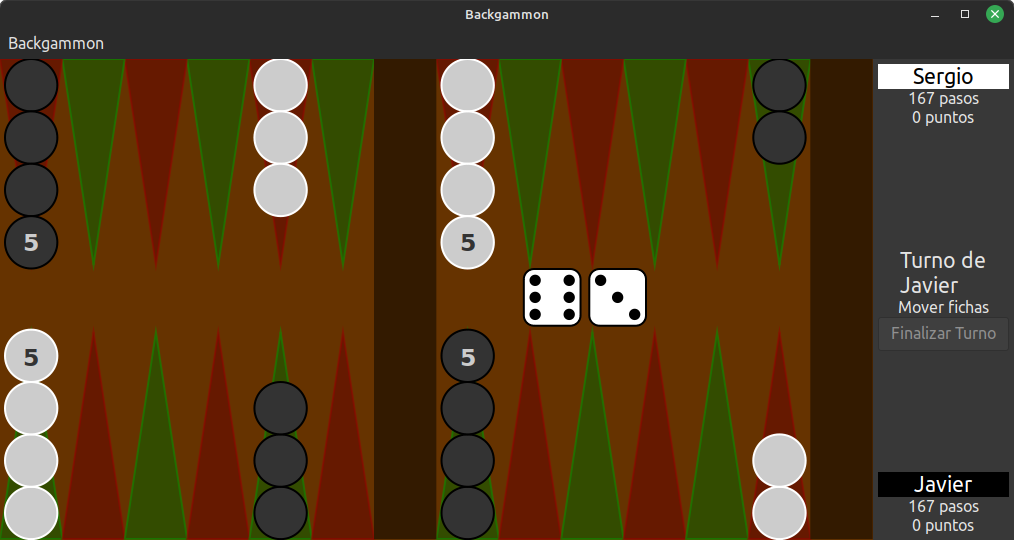
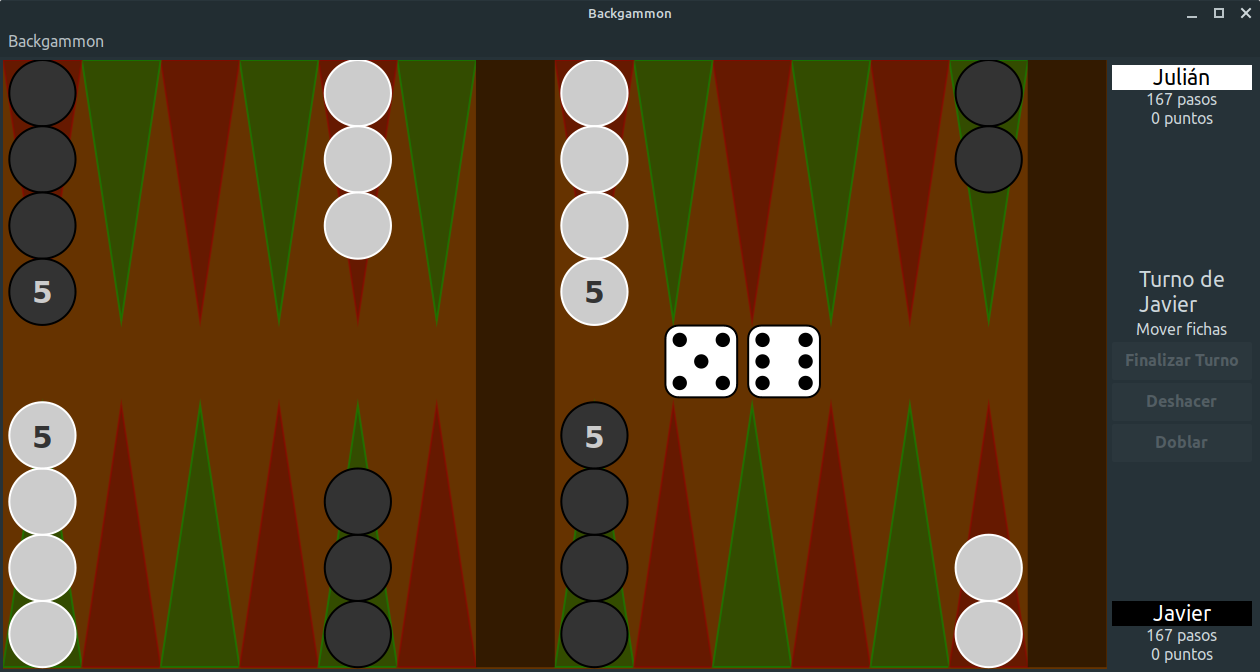
double point dice requests

Changed region(s): [[0.0, 0.0296, 1.0, 1.0], [0.4586, 0.0, 0.5503, 0.0593], [0.9477, 0.0, 1.0, 0.0593]]

diff --git a/src/player.c b/src/player.c
@@ -12,6 +12,11 @@
 #include <backgammon.h>
 #include <movement.h>
 #include <dice.h>
+#include <utils.h>
+#include <double_dice.h>
+
+gboolean human_double_request(Backgammon *bg);
+gboolean ia_double_request(Backgammon *bg);
 
 /**
  * @brief Update player information:
@@ -99,10 +104,14 @@ guint player_count_steps(void *bgp, Player *player) {
 /**
  * @brief Function assigned to a player to configure them as a human player.
  * 
- * @param bgp Backgammon instance
+ * @param bg Backgammon instance
+ * @param double_request TRUE when the player is asked to double
+ * @return boolean FALSE if opponent rejects the double
  */
-void human_play_func(void *bgp) {
+gboolean human_play_func(void *bgp, gboolean double_request) {
 	Backgammon *bg = (Backgammon *) bgp;
+
+	if (double_request) return human_double_request(bg);
 
 	if (bg->status == S_ROLL_DICE) {
 		bg->board->enable_dice = TRUE;
@@ -141,17 +150,23 @@ void human_play_func(void *bgp) {
 		gtk_widget_set_sensitive(GTK_WIDGET(bg->undo_button), TRUE);
 		gtk_widget_set_sensitive(GTK_WIDGET(bg->double_button), FALSE);
 	}
+
+	return TRUE;
 }
 
 /**
  * @brief Function assigned to a player to configure them as an artificial intelligence.
  * 
- * @param bgp Backgammon instance
+ * @param bg Backgammon instance
+ * @param double_request TRUE when the player is asked to double
+ * @return boolean FALSE if opponent rejects the double
  */
-void ia_play_func(void *bgp) {
+gboolean ia_play_func(void *bgp, gboolean double_request) {
 	guint choice, i;
 	GList *iter;
 	Backgammon *bg = (Backgammon *) bgp;
+
+	if (double_request) return ia_double_request(bg);
 
 	bg->board->enable_dice = FALSE;
 	bg->board->enable_places = FALSE;
@@ -159,6 +174,10 @@ void ia_play_func(void *bgp) {
 	if (bg->status == S_ROLL_DICE) {
 		gtk_label_set_text(bg->action_label, "Lanzar dados");
 		gtk_widget_set_sensitive(GTK_WIDGET(bg->end_turn_button), FALSE);
+
+		if (g_random_double_range(0, 1.0) < 0.1) {
+			double_perform(bg);
+		}
 		
 		dice_roll(bg->board->dice, bg->board->consumed_dice);
 
@@ -200,6 +219,8 @@ void ia_play_func(void *bgp) {
 		gtk_label_set_text(bg->action_label, "Turno finalizado");
 		gtk_widget_set_sensitive(GTK_WIDGET(bg->end_turn_button), TRUE);
 	}
+
+	return TRUE;
 }
 
 /**
@@ -211,7 +232,27 @@ void ia_play_func(void *bgp) {
 gboolean ia_delayed_func(gpointer data) {
 	Backgammon *bg = (Backgammon *) data;
 
-	bg_current_player(bg)->play_func(bg);
+	bg_current_player(bg)->play_func(bg, FALSE);
 
 	return G_SOURCE_REMOVE;
+}
+
+gboolean human_double_request(Backgammon *bg) {
+	GString *msg;
+	gboolean result;
+
+	msg = g_string_new("");
+	g_string_append_printf(msg, "%s dobla la apuesta ¿Aceptar?",
+			bg_current_player(bg)->name->str);
+
+	result = question(GTK_WIDGET(bg->window), msg->str);
+
+	g_string_free(msg, TRUE);
+
+	return result;
+}
+
+gboolean ia_double_request(Backgammon *bg) {
+	// TODO: improve ia
+	return g_random_double_range(0.0, 1.0) > 0.5;
 }

diff --git a/include/player.h b/include/player.h
@@ -22,7 +22,7 @@
 typedef struct player_t {
 	GString *name;
 	gint piece, direction, score, double_points;
-	void (*play_func)(void *);
+	gboolean (*play_func)(void *, gboolean);
 	gboolean ia;
 } Player;
 
@@ -47,15 +47,19 @@ guint player_count_steps(void *bg, Player *player);
  * @brief Function assigned to a player to configure them as a human player.
  * 
  * @param bg Backgammon instance
+ * @param double_request TRUE when the player is asked to double
+ * @return boolean FALSE if opponent rejects the double
  */
-void human_play_func(void *bg);
+gboolean human_play_func(void *bg, gboolean double_request);
 
 /**
  * @brief Function assigned to a player to configure them as an artificial intelligence.
  * 
  * @param bg Backgammon instance
+ * @param double_request TRUE when the player is asked to double
+ * @return boolean FALSE if opponent rejects the double
  */
-void ia_play_func(void *bg);
+gboolean ia_play_func(void *bg, gboolean double_request);
 
 /**
  * @brief Function called during the delay generated for AI.

diff --git a/src/double_dice.c b/src/double_dice.c
@@ -11,6 +11,7 @@
 
 #include <backgammon.h>
 #include <math.h>
+#include <results_dialog.h>
 
 /**
  * @brief Sets the Pixbuf based on the number of points.
@@ -44,6 +45,7 @@ void set_double_dice_image(Backgammon *bg, GtkImage *img, guint points) {
 void double_perform(void *bgp) {
 	Backgammon *bg;
 	guint points;
+	ResultsDialog *dialog;
 
 	bg = (Backgammon *) bgp;
 
@@ -56,6 +58,22 @@ void double_perform(void *bgp) {
 
 	// Maximum reached. Cannot double anymore
 	if (points > 64) return;
+
+	if (!bg_opponent(bg)->play_func(bg, TRUE)) {
+		// The opponent reached double request
+		bg->status = S_END_ROUND;
+
+		// Multiply for double dice
+		points = 1;
+		points *= bg->player[0].double_points;
+		points *= bg->player[1].double_points;
+		bg_current_player(bg)->score += points;
+
+		dialog = results_dialog_new(bg, bg_current_player(bg), points);
+		results_dialog_show(dialog);
+
+		return ;
+	}
 
 	// Sets the points
 	bg_opponent(bg)->double_points = 1;

diff --git a/src/results_dialog.c b/src/results_dialog.c
@@ -35,6 +35,12 @@ static void result_dialog_destroy(GtkWindow *window, gpointer data) {
 
 	board_init(dialog->bg->board);
 
+	dialog->bg->player[0].double_points =
+	dialog->bg->player[1].double_points = 1;
+
+	gtk_image_set_from_pixbuf(dialog->bg->double_image[0], NULL);
+	gtk_image_set_from_pixbuf(dialog->bg->double_image[1], NULL);
+
 	// Check winner
 	if (dialog->winner->score >= dialog->bg->max_score) {
 		msg = g_string_new(dialog->winner->name->str);

diff --git a/src/backgammon.c b/src/backgammon.c
@@ -282,7 +282,7 @@ void bg_next_step(Backgammon *bg) {
 
 	if (bg_current_player(bg)->ia) {
 		g_timeout_add(DELAYED_FUNC_TIMEOUT, ia_delayed_func, bg);
-	} else bg_current_player(bg)->play_func(bg);
+	} else bg_current_player(bg)->play_func(bg, FALSE);
 }
 
 /**

diff --git a/src/board.c b/src/board.c
@@ -166,8 +166,8 @@ void board_init(Board *board) {
 	board->places[23].data = 2;
 */
 
+	// Dice
 	for (i = 0; i < 4; i ++) board->consumed_dice[i] = FALSE;
-
 }
 
 /**
